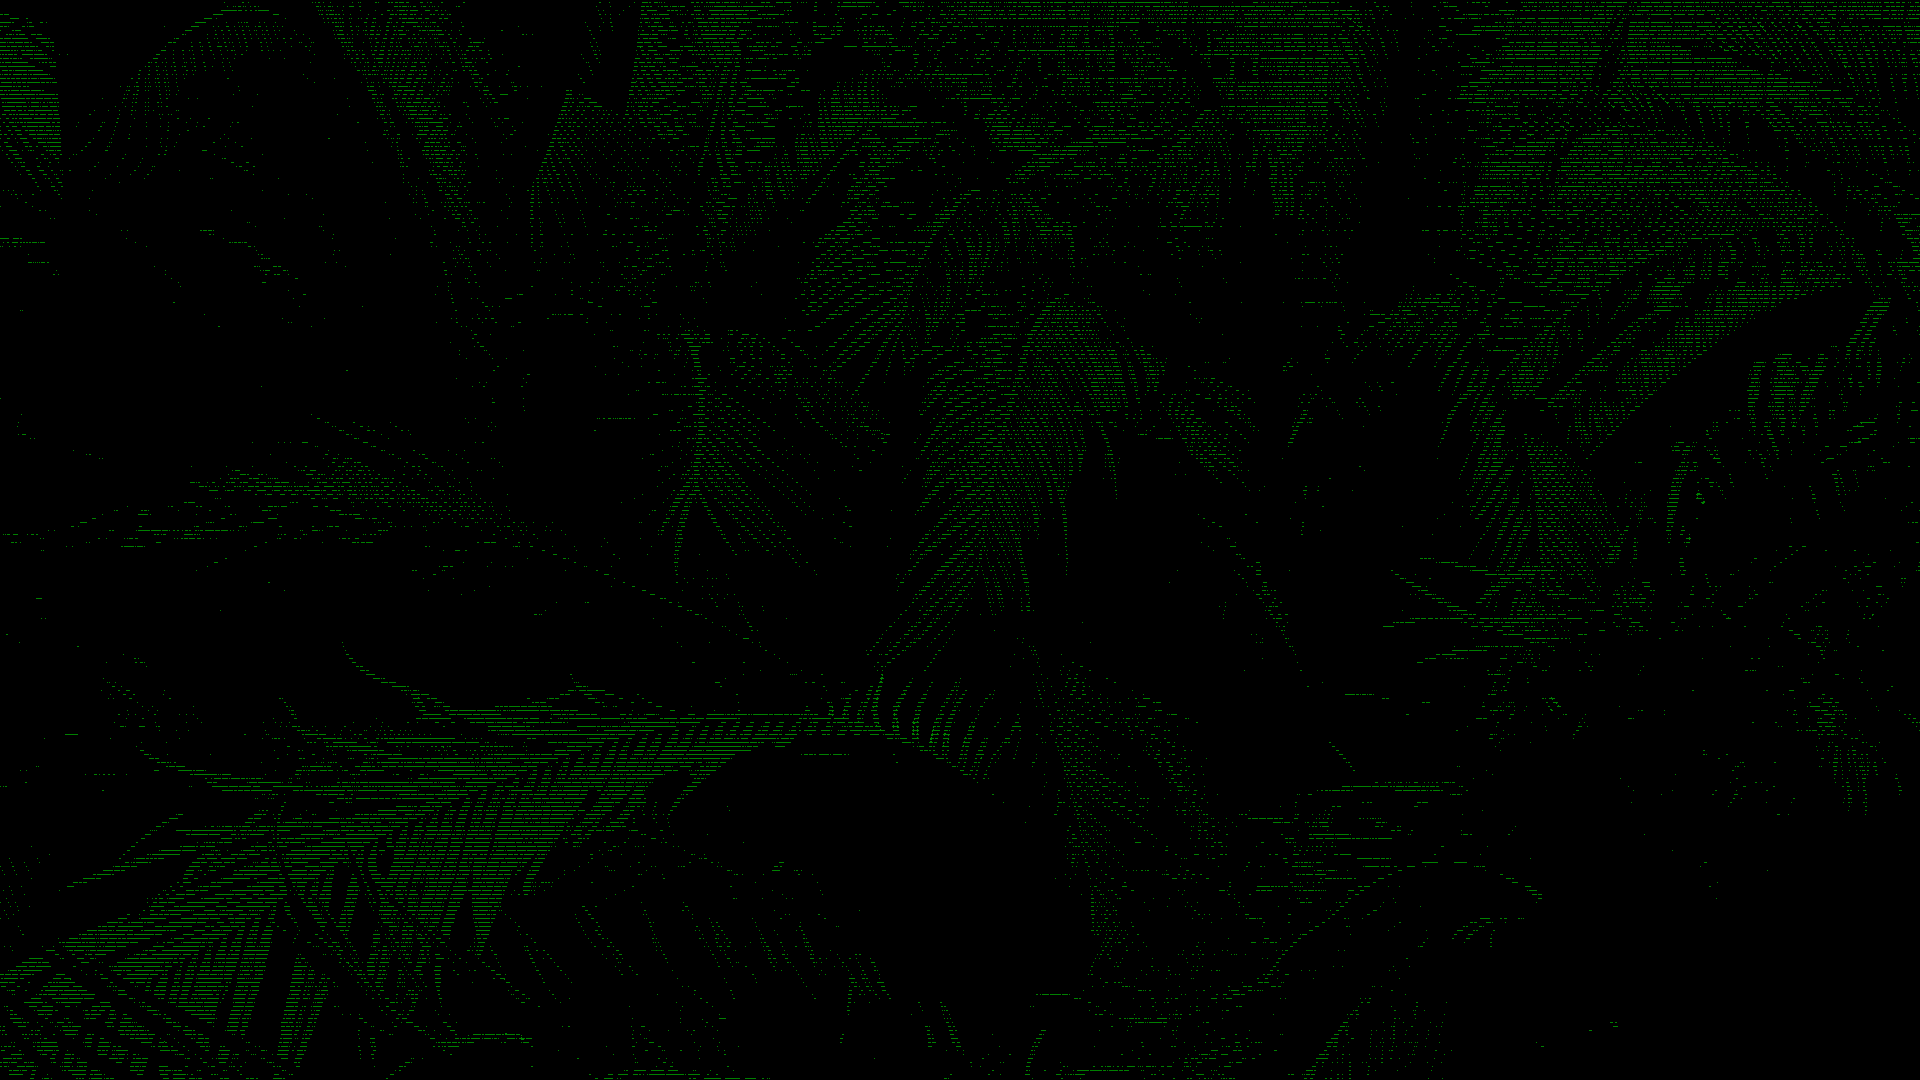
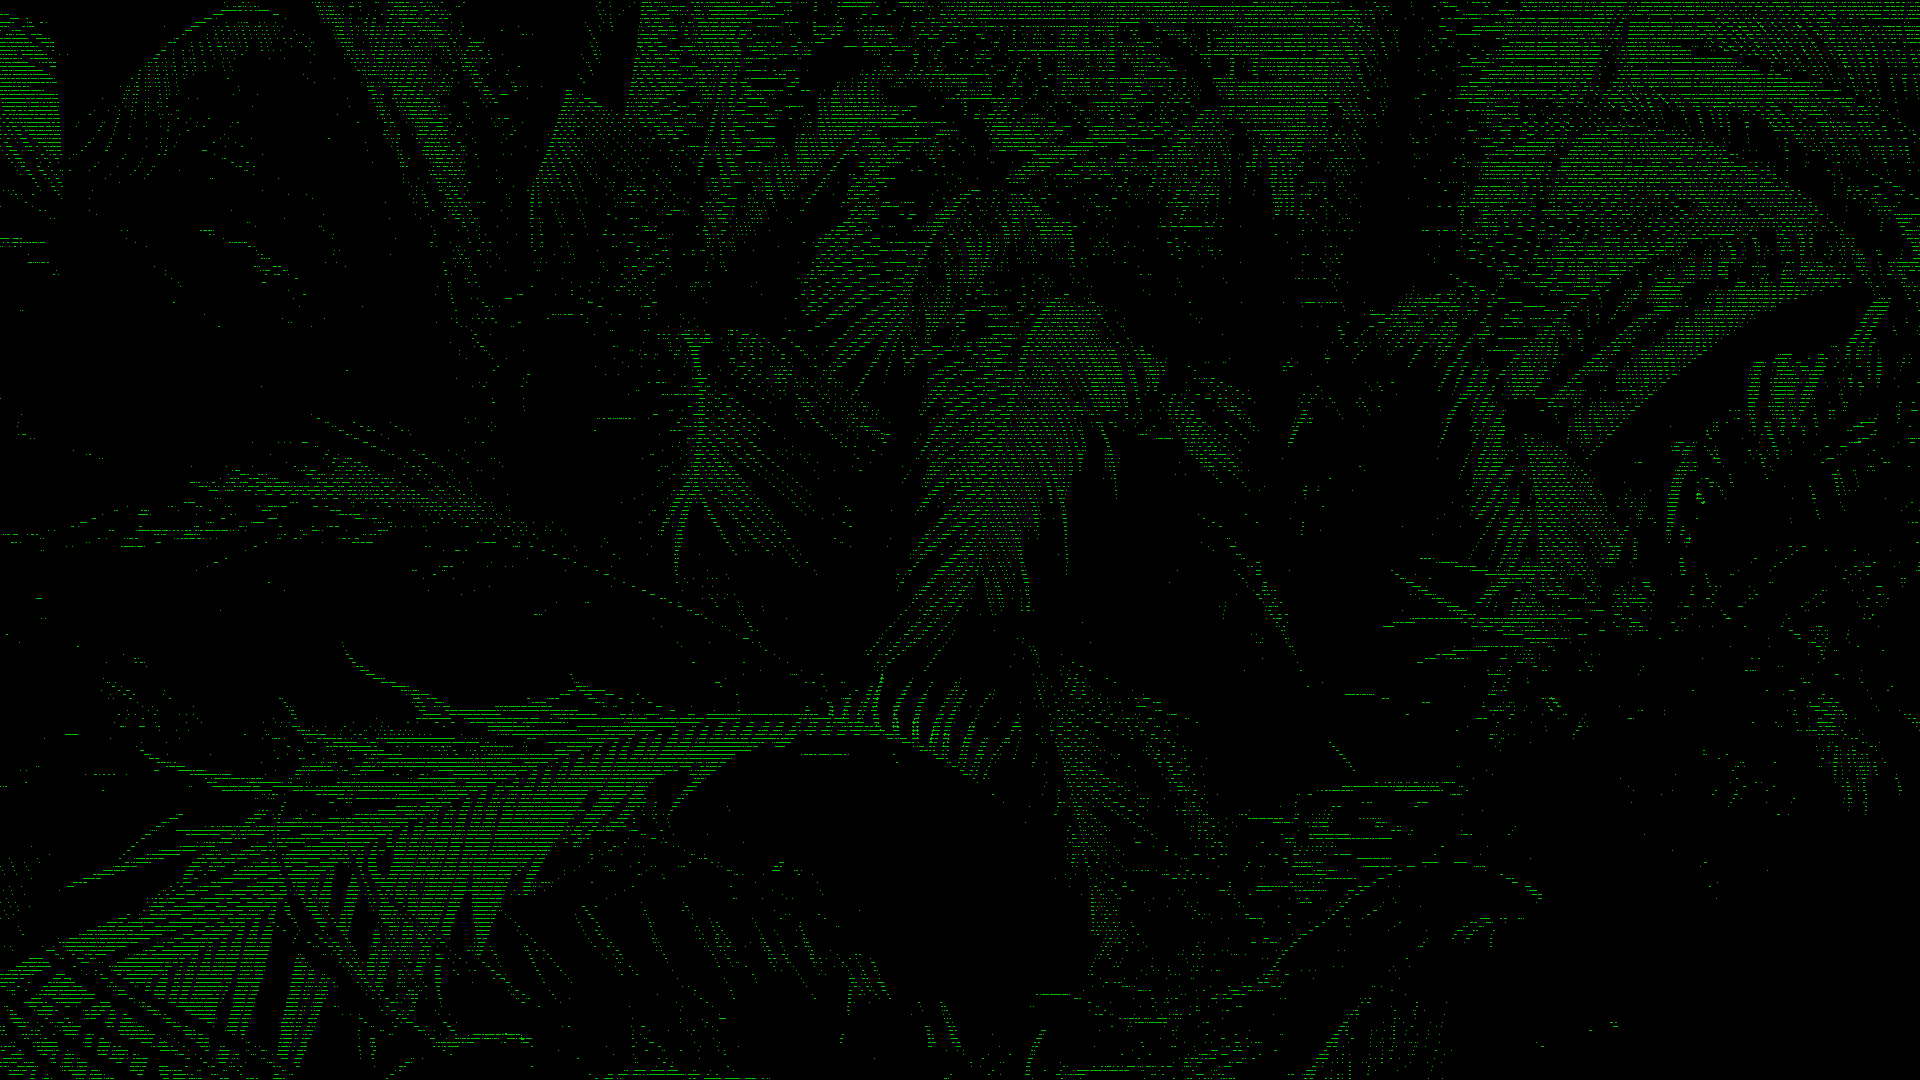
fin

diff --git a/y0f.css b/y0f.css
@@ -1,93 +1,99 @@
 body {
-    margin: 0;
-    padding: 0;
-    font-family: Arial, sans-serif;
-    color: black;
-    position: relative;
-    min-height: 100vh; 
-  }
-  
-  body::before {
-      content: "";
-      position: absolute;
-      top: 0;
-      left: 0;
-      width: 100%;
-      height: 100%;
-      background: rgba(0, 0, 0, 0.8);
-      z-index: -1;
-  }
-  
-  body::after {
-      content: "";
-      position: absolute;
-      top: 0;
-      left: 0;
-      width: 100%;
-      height: 100%;
-      background-image: url('y0f.png'); 
-      background-size: cover;
-      background-position: center;
-      background-repeat: no-repeat;
-      z-index: -2;
-  }
-  .ascii-art {
-    display: flex;
-    justify-content: center;
-    align-items: center;
-  }
+  margin: 0;
+  padding: 0;
+  font-family: Arial, sans-serif;
+  color: black;
+  position: relative;
+  min-height: 100vh;
+}
+
+body::before {
+  content: "";
+  position: absolute;
+  top: 0;
+  left: 0;
+  width: 100%;
+  height: 100%;
+  background: rgba(0, 0, 0, var(--bg-opacity, 0.8));
+  z-index: -1;
+  transition: background 0.5s ease;
+}
+
+body::after {
+  content: "";
+  position: absolute;
+  top: 0;
+  left: 0;
+  width: 100%;
+  height: 100%;
+  background-image: url('y0f.png');
+  background-size: cover;
+  background-position: center;
+  background-repeat: no-repeat;
+  z-index: -2;
+}
+
+.ascii-art {
+  display: flex;
+  justify-content: center;
+  align-items: center;
+}
+
+pre {
+  font-size: 8px;
+  font-weight: bold;
+  padding: 0px;
+  line-height: 8px;
+  letter-spacing: 3.4px;
+  background-color: #000000;
+}
+
+.slider-container {
+  display: flex;
+  justify-content: center;
+  margin-top: 20px;
+}
+
+.slider-container input[type="range"] {
+  -webkit-appearance: none;
+  width: 50%;
+  height: 15px;
+  background: #ccc;
+  outline: none;
+  opacity: 0.7;
+  transition: opacity 0.2s;
+}
+
+.slider-container input[type="range"]::-webkit-slider-thumb {
+  -webkit-appearance: none;
+  appearance: none;
+  width: 25px;
+  height: 25px;
+  background: #00ff00;
+  cursor: pointer;
+}
+
+.slider-container input[type="range"]::-moz-range-thumb {
+  width: 25px;
+  height: 25px;
+  background: #00ff00;
+  cursor: pointer;
+}
+
+@media (max-width: 600px) {
   pre {
-    font-size: 8px;
-    font-weight: bold;
-    padding: 0px;
-    line-height: 8px;
-    letter-spacing: 3.4px;
-    background-color: #000000;
-  }
-  .slider-container {
-    display: flex;
-    justify-content: center;
-    margin-top: 20px;
-  }
-  .slider-container input[type="range"] {
-    -webkit-appearance: none;
-    width: 50%;
-    height: 15px;
-    background: #ccc;
-    outline: none;
-    opacity: 0.7;
-    transition: opacity 0.2s;
-  }
-  .slider-container input[type="range"]::-webkit-slider-thumb {
-    -webkit-appearance: none;
-    appearance: none;
-    width: 25px;
-    height: 25px;
-    background: #00ff00;
-    cursor: pointer;
-  }
-  .slider-container input[type="range"]::-moz-range-thumb {
-    width: 25px;
-    height: 25px;
-    background: #00ff00;
-    cursor: pointer;
-  }
-  
-  @media (max-width: 600px) {
-    pre {
       font-size: 2px;
       line-height: 3px;
       letter-spacing: 2px;
-    }
-    .ascii-art {
+  }
+  .ascii-art {
       display: flex;
       justify-content: center;
       align-items: center;
       width: 100%;
       padding-top: 5rem;
-    }
-    pre {
-      text-align: center;
-    }
   }
-  
+  pre {
+      text-align: center;
+  }
+}

diff --git a/y0f.js b/y0f.js
@@ -1,69 +1,74 @@
+/*
+  xd
+*/
 (function y0f(f0Y) {
-    let baseSpeed = 123;
-  
-    function y0fY0F(fY0) {
+  let baseSpeed = 123;
+
+  function y0fY0F(fY0) {
       return Math.floor(Math.random() * fY0);
-    }
-  
-    function y0fy(fy0F) {
+  }
+
+  function y0fy(fy0F) {
       fy0F.setAttribute("y0f-original-color", fy0F.style.color);
       fy0F.style.setProperty("color", "#00FF00", "important");
-    }
-  
-    function y0fF0(f0Y) {
+  }
+
+  function y0fF0(f0Y) {
       const y0Fy = f0Y.getAttribute("y0f-original-color");
       f0Y.style.setProperty("color", y0Fy, "important");
-    }
-  
-    function y0fyf0(hex) {
+  }
+
+  function y0fyf0(hex) {
       hex = hex.replace("#", "");
       const y0fR = parseInt(hex.substr(0, 2), 16);
       const y0fG = parseInt(hex.substr(2, 2), 16);
       const y0fB = parseInt(hex.substr(4, 2), 16);
       return 0.299 * y0fR + 0.587 * y0fG + 0.114 * y0fB;
-    }
-  
-    function y0fYf(hex, y0fT) {
+  }
+
+  function y0fYf(hex, y0fT) {
       return y0fyf0(hex) < y0fyf0(y0fT);
-    }
-  
-    function y0fFy(rgb) {
+  }
+
+  function y0fFy(rgb) {
       const y0fMatch = rgb.match(/\d+/g).map(function (x) {
-        return parseInt(x).toString(16).padStart(2, "0");
+          return parseInt(x).toString(16).padStart(2, "0");
       });
       return `#${y0fMatch.join("")}`;
-    }
-  
-    function y0fy0f() {
+  }
+
+  function y0fy0f() {
       const y0fAll = document.querySelectorAll("#asciiArt span");
       if (y0fAll.length === 0) {
-        return;
+          return;
       }
-  
+
       function y0fY0() {
-        const y0fList = [];
-        while (y0fList.length < y0fAll.length / baseSpeed) {
-          const y0fIdx = y0fY0F(y0fAll.length);
-          const y0fCol = window.getComputedStyle(y0fAll[y0fIdx]).color;
-          const y0fHex = y0fFy(y0fCol);
-          if (!y0fList.includes(y0fAll[y0fIdx]) && y0fYf(y0fHex, "#666666")) {
-            y0fList.push(y0fAll[y0fIdx]);
+          const y0fList = [];
+          while (y0fList.length < y0fAll.length / baseSpeed) {
+              const y0fIdx = y0fY0F(y0fAll.length);
+              const y0fCol = window.getComputedStyle(y0fAll[y0fIdx]).color;
+              const y0fHex = y0fFy(y0fCol);
+              if (!y0fList.includes(y0fAll[y0fIdx]) && y0fYf(y0fHex, "#666666")) {
+                  y0fList.push(y0fAll[y0fIdx]);
+              }
           }
-        }
-        y0fList.forEach((y0fElem) => y0fy(y0fElem));
-        setTimeout(() => {
-          y0fList.forEach((y0fElem) => y0fF0(y0fElem));
-          y0fY0();
-        }, baseSpeed);
+          y0fList.forEach((y0fElem) => y0fy(y0fElem));
+          setTimeout(() => {
+              y0fList.forEach((y0fElem) => y0fF0(y0fElem));
+              y0fY0();
+          }, baseSpeed);
       }
       y0fY0();
-    }
-  
-    document.addEventListener("DOMContentLoaded", y0fy0f);
-  
-    document.getElementById("speedSlider").addEventListener("input", function (event) {
+  }
+
+  document.addEventListener("DOMContentLoaded", y0fy0f);
+
+  document.getElementById("speedSlider").addEventListener("input", function (event) {
       const yy00ff = parseInt(event.target.value);
       baseSpeed = 10 + (240 * (100 - yy00ff) / 100); 
-    });
-  })("y0f");
-  
+      
+      const y0fy0ff0f = (100 - yy00ff) / 100;
+      document.body.style.setProperty('--bg-opacity', y0fy0ff0f, 'important');
+  });
+})("y0f");

diff --git a/README.md b/README.md
@@ -1,1 +1,4 @@
+
+#y0f
+
 https://y0f.github.io
